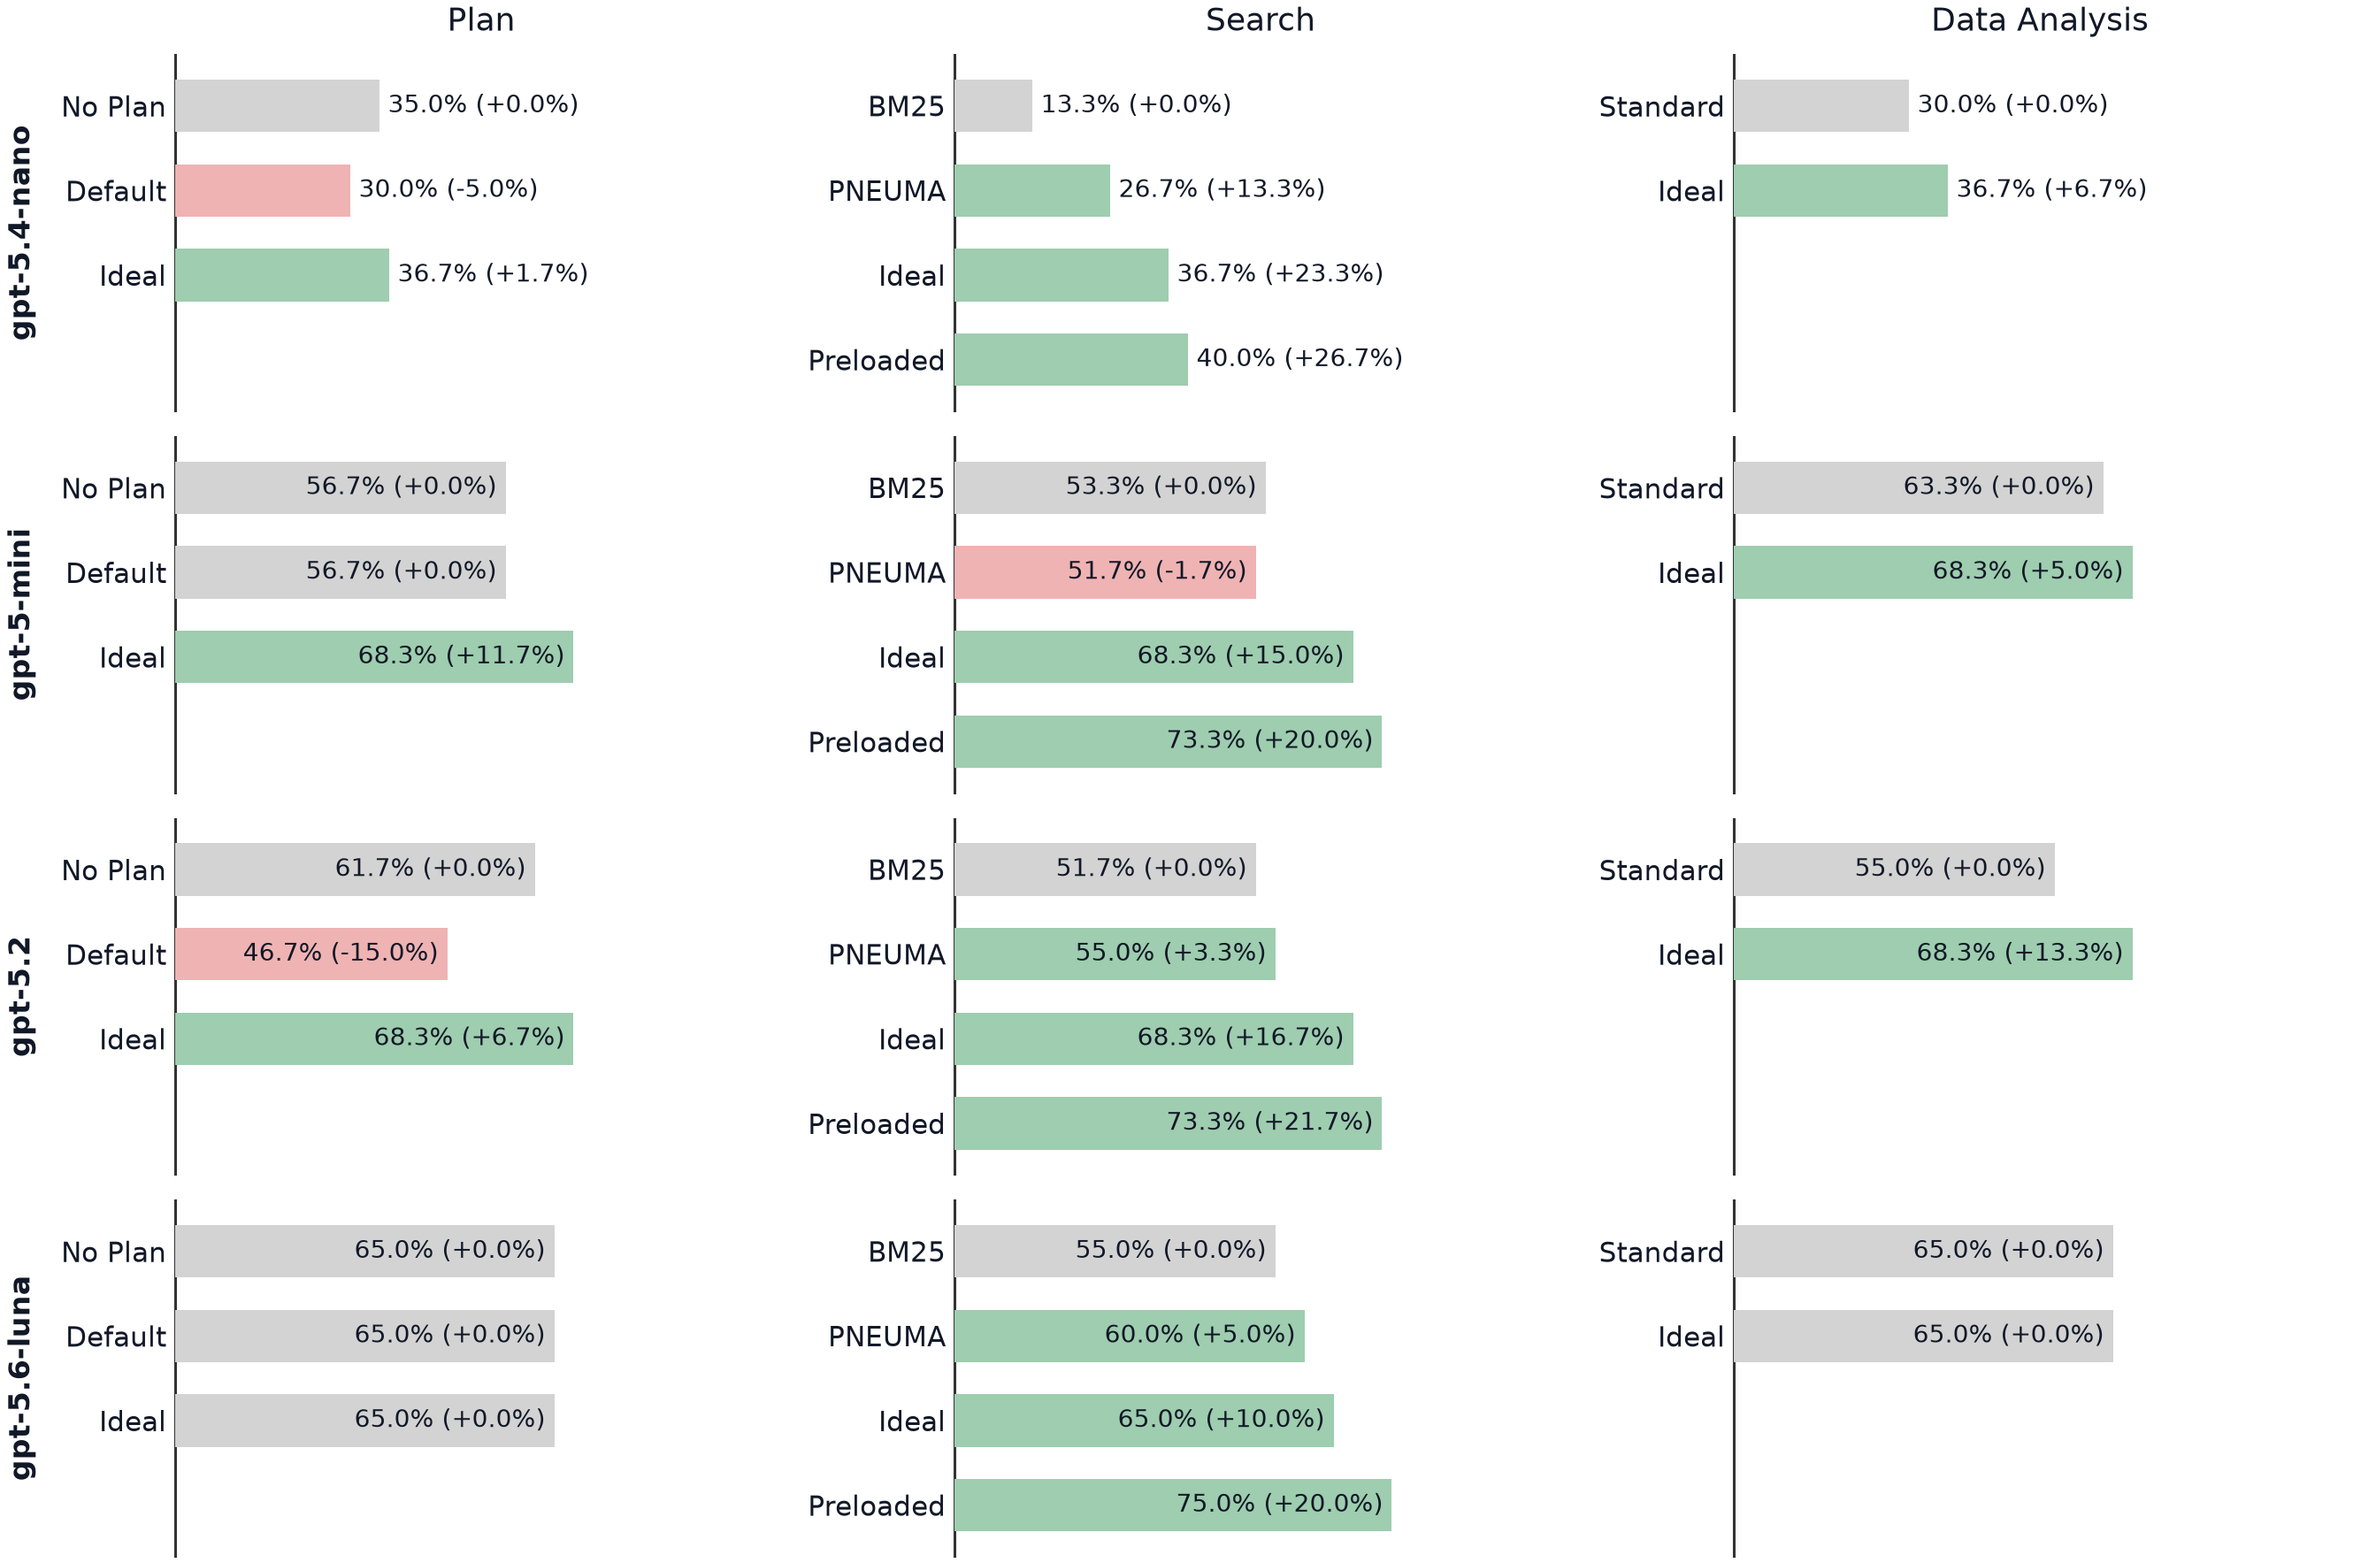
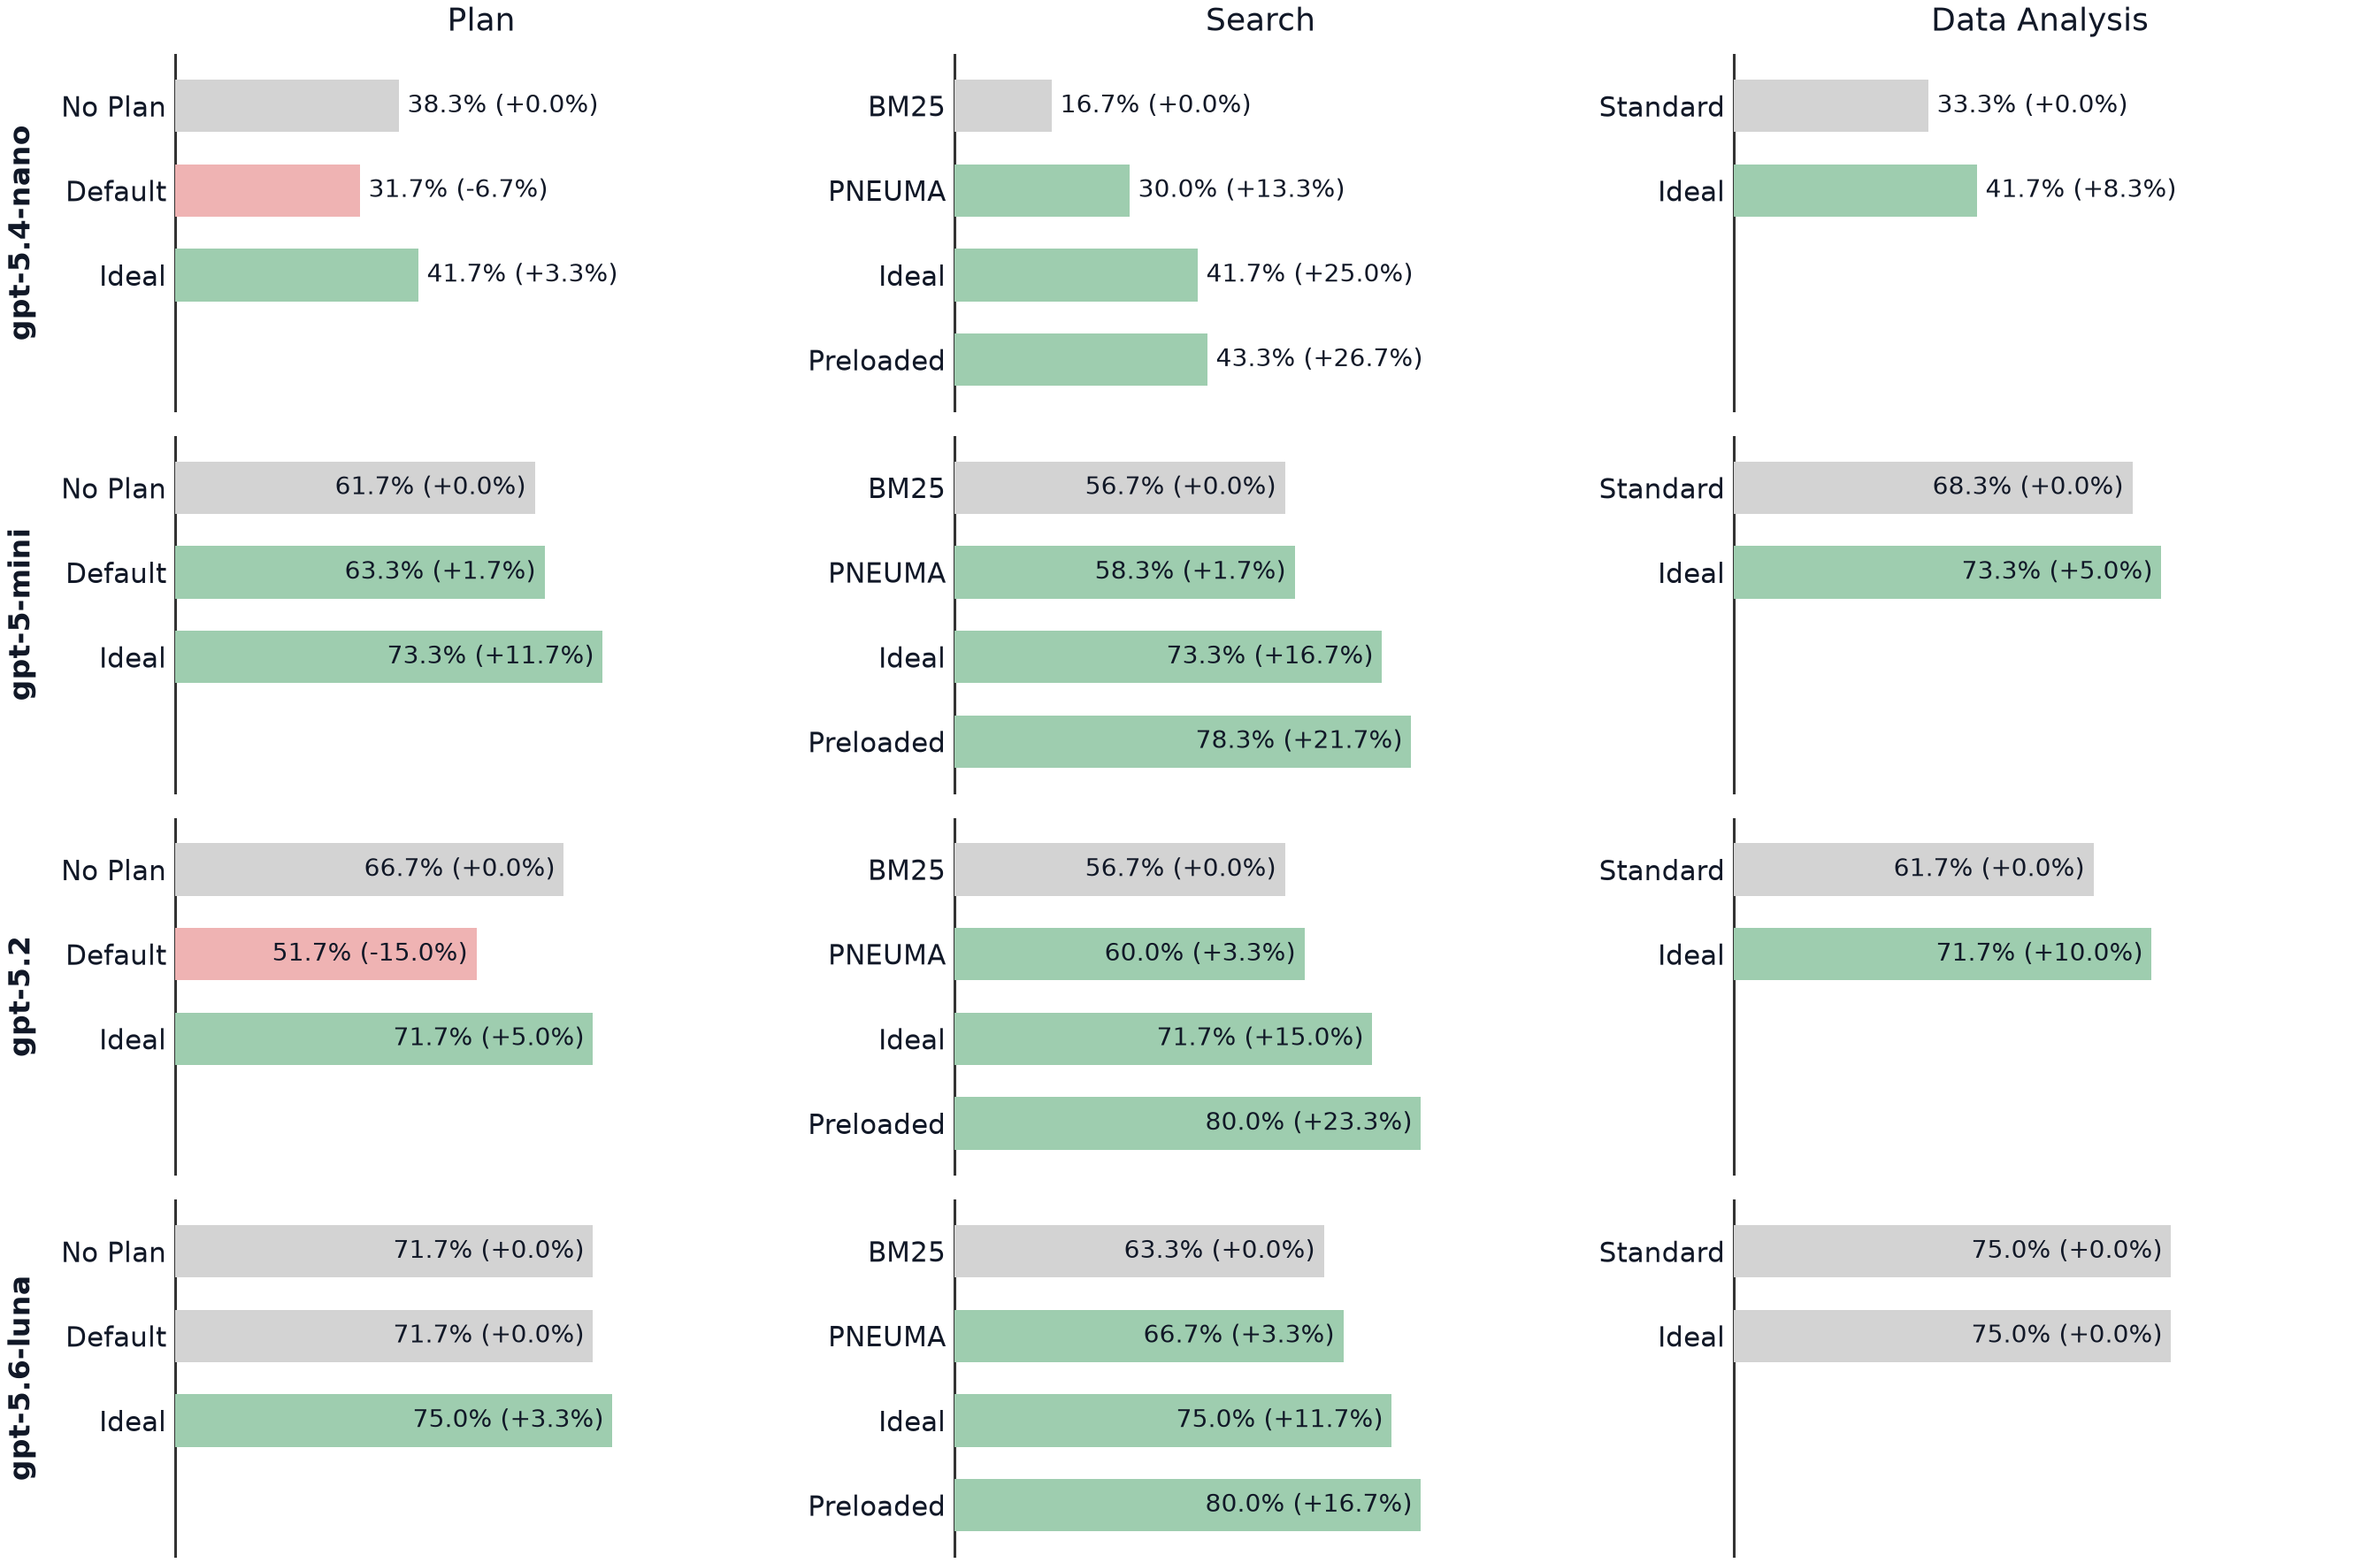
Complete gpt-5.6-luna: three rounds, audited, everything on semantic match
All four models now carry three replicate rounds of semantic match, so the
tables and both figures stop falling back to exact match.

gpt-5.6-luna reaches 71.9% against gpt-5-mini's 65.7% and gpt-5.2's 64.0%, in
10.1 agent cycles where the others take 16-23, at $0.021 per correct answer
against $0.115 and $0.276. It is the most accurate tier and the cheapest by an
order of magnitude, which is the finding this experiment was run to test.

Two fixes to finalize_luna.sh, both found by running it:

Remote paths were built as "$REMOTE:~/sana-framework/...", and bash tilde-expands
after a colon in an assignment, so every pull resolved to this machine's home
and failed. Rounds 1 and 2 only appeared to work because they had been pulled by
hand earlier; round 3 was never fetched and the script reported it as "(no
results-rep3 yet)". Paths are now relative to the remote home, and a pull that
fails while the directory exists on the remote is fatal rather than a note --
that soft branch is what hid this.

Round 1's exactly-zero plan and execution effects for luna were a coincidence of
one round, not a property. At n=3 they are -3.3, -3.3 and 0.0, still the
flattest profile of the four models but no longer identically zero.

Claude-Session: https://claude.ai/code/session_015ajqKM9XM5KkngyEHqownD

diff --git a/experiments/2026-08-31-model-tiers-subset20b/results.tex b/experiments/2026-08-31-model-tiers-subset20b/results.tex
@@ -1,6 +1,6 @@
 % ============================================================
 % GENERATED by gen_tex.py -- do not edit by hand.
-% metric: exact_match; 3 replicate rounds; 20 tasks per cell.
+% metric: semantic_match; 3 replicate rounds; 20 tasks per cell.
 % Requires: booktabs, multirow.
 % ============================================================
 
@@ -15,20 +15,20 @@ axis is degraded per cell, giving seven cells per model. Each cell was run
 a standard deviation rather than resting on a single sample.
 
 That replication is the central result. The mean per-cell standard
-deviation is 6.5\,pp, so a two-sigma interval spans
+deviation is 6.4\,pp, so a two-sigma interval spans
 $\pm13$\,pp and an effect must exceed roughly 13\,pp to be
 distinguishable from run-to-run variance. Since one task is worth 5\,pp at
 $n=20$, that threshold is about 3 tasks.
 
 Of the 24 degraded cells, only
-7 clear that threshold: Search: BM25 at \texttt{gpt-5.4-nano} ($-23.3$\,pp), Plan: Default at \texttt{gpt-5.2} ($-21.7$\,pp), Search: PNEUMA at \texttt{gpt-5-mini} ($-16.7$\,pp), Search: BM25 at \texttt{gpt-5.2} ($-16.7$\,pp), Search: BM25 at \texttt{gpt-5-mini} ($-15.0$\,pp).
+5 clear that threshold: Search: BM25 at \texttt{gpt-5.4-nano} ($-25.0$\,pp), Plan: Default at \texttt{gpt-5.2} ($-20.0$\,pp), Search: BM25 at \texttt{gpt-5-mini} ($-16.7$\,pp), Search: BM25 at \texttt{gpt-5.2} ($-15.0$\,pp), Search: PNEUMA at \texttt{gpt-5-mini} ($-15.0$\,pp).
 The search axis is the one effect that replicates across every tier;
 the remaining cells cannot be separated from noise at this sample size.
 
-The reference cells themselves are \texttt{gpt-5.4-nano} 36.7\% ($\sigma=2.9$), \texttt{gpt-5-mini} 68.3\% ($\sigma=2.9$), \texttt{gpt-5.2} 68.3\% ($\sigma=7.6$), \texttt{gpt-5.6-luna} 65.0\%.
-\texttt{gpt-5-mini} and \texttt{gpt-5.2} land on the same mean
-(68.3\%), despite a roughly sevenfold difference in
-price per token.
+The reference cells themselves are \texttt{gpt-5.4-nano} 41.7\% ($\sigma=2.9$), \texttt{gpt-5-mini} 73.3\% ($\sigma=2.9$), \texttt{gpt-5.2} 71.7\% ($\sigma=10.4$), \texttt{gpt-5.6-luna} 75.0\% ($\sigma=5.0$).
+\texttt{gpt-5-mini} and \texttt{gpt-5.2} differ by
+1.7\,pp against a standard error of 6.2\,pp on that
+difference, so they are not separable here.
 On this split the frontier model does not outperform the smaller
 one, and a single round would have suggested otherwise: round~1
 alone put \texttt{gpt-5.2} 5\,pp below \texttt{gpt-5-mini}.
@@ -36,7 +36,7 @@ alone put \texttt{gpt-5.2} 5\,pp below \texttt{gpt-5-mini}.
 \begin{table}[h]
   \centering
   \caption{Leave-one-out ablation across model tiers on LakeQA
-  \textsc{subset20b} (20 tasks per cell, exact match, mean over the
+  \textsc{subset20b} (20 tasks per cell, semantic match, mean over the
   replicate rounds each row has, run under identical configuration).
   $\bar{x}$ is the mean over those rounds and $\delta$ the effect relative
   to that model's reference cell; effects exceeding the
@@ -56,40 +56,40 @@ alone put \texttt{gpt-5.2} 5\,pp below \texttt{gpt-5-mini}.
     Model & Condition & $\bar{x}$ (\%) & $\delta$ (pp) & Rounds/task & \$/task \\
     \midrule
     \multirow{7}{*}{\texttt{gpt-5.4-nano}}
-      & Reference (all ideal) & 36.7 & --- & 20.5 & 0.0351 \\
-      & Search: BM25 & 13.3 & \textbf{$-23.3$} & 21.0 & 0.0345 \\
-      & Search: PNEUMA & 26.7 & $-10.0$ & 20.9 & 0.0364 \\
-      & Search: Preloaded & 40.0 & $+3.3$ & 20.0 & 0.0391 \\
-      & Plan: No Plan & 35.0 & $-1.7$ & 18.9 & 0.0348 \\
-      & Plan: Default & 30.0 & $-6.7$ & 22.2 & 0.0369 \\
-      & Data An.: Standard & 30.0 & $-6.7$ & 21.9 & 0.0177 \\
+      & Reference (all ideal) & 41.7 & --- & 20.5 & 0.0351 \\
+      & Search: BM25 & 16.7 & \textbf{$-25.0$} & 21.0 & 0.0345 \\
+      & Search: PNEUMA & 30.0 & $-11.7$ & 20.9 & 0.0364 \\
+      & Search: Preloaded & 43.3 & $+1.7$ & 20.0 & 0.0391 \\
+      & Plan: No Plan & 38.3 & $-3.3$ & 18.9 & 0.0348 \\
+      & Plan: Default & 31.7 & $-10.0$ & 22.2 & 0.0369 \\
+      & Data An.: Standard & 33.3 & $-8.3$ & 21.9 & 0.0177 \\
     \midrule
     \multirow{7}{*}{\texttt{gpt-5-mini}}
-      & Reference (all ideal) & 68.3 & --- & 23.1 & 0.0781 \\
-      & Search: BM25 & 53.3 & \textbf{$-15.0$} & 29.0 & 0.0927 \\
-      & Search: PNEUMA & 51.7 & \textbf{$-16.7$} & 27.2 & 0.0987 \\
-      & Search: Preloaded & 73.3 & $+5.0$ & 16.7 & 0.0595 \\
-      & Plan: No Plan & 56.7 & $-11.7$ & 21.3 & 0.0784 \\
-      & Plan: Default & 56.7 & $-11.7$ & 23.7 & 0.0817 \\
-      & Data An.: Standard & 63.3 & $-5.0$ & 22.4 & 0.0399 \\
+      & Reference (all ideal) & 73.3 & --- & 23.1 & 0.0781 \\
+      & Search: BM25 & 56.7 & \textbf{$-16.7$} & 29.0 & 0.0927 \\
+      & Search: PNEUMA & 58.3 & \textbf{$-15.0$} & 27.2 & 0.0987 \\
+      & Search: Preloaded & 78.3 & $+5.0$ & 16.7 & 0.0595 \\
+      & Plan: No Plan & 61.7 & $-11.7$ & 21.3 & 0.0784 \\
+      & Plan: Default & 63.3 & $-10.0$ & 23.7 & 0.0817 \\
+      & Data An.: Standard & 68.3 & $-5.0$ & 22.4 & 0.0399 \\
     \midrule
     \multirow{7}{*}{\texttt{gpt-5.2}}
-      & Reference (all ideal) & 68.3 & --- & 17.3 & 0.1916 \\
-      & Search: BM25 & 51.7 & \textbf{$-16.7$} & 19.7 & 0.2275 \\
-      & Search: PNEUMA & 55.0 & \textbf{$-13.3$} & 19.0 & 0.2251 \\
-      & Search: Preloaded & 73.3 & $+5.0$ & 12.3 & 0.1420 \\
-      & Plan: No Plan & 61.7 & $-6.7$ & 12.9 & 0.1615 \\
-      & Plan: Default & 46.7 & \textbf{$-21.7$} & 16.1 & 0.1701 \\
-      & Data An.: Standard & 55.0 & \textbf{$-13.3$} & 16.7 & 0.1194 \\
+      & Reference (all ideal) & 71.7 & --- & 17.3 & 0.1916 \\
+      & Search: BM25 & 56.7 & \textbf{$-15.0$} & 19.7 & 0.2275 \\
+      & Search: PNEUMA & 60.0 & $-11.7$ & 19.0 & 0.2251 \\
+      & Search: Preloaded & 80.0 & $+8.3$ & 12.3 & 0.1420 \\
+      & Plan: No Plan & 66.7 & $-5.0$ & 12.9 & 0.1615 \\
+      & Plan: Default & 51.7 & \textbf{$-20.0$} & 16.1 & 0.1701 \\
+      & Data An.: Standard & 61.7 & $-10.0$ & 16.7 & 0.1194 \\
     \midrule
     \multirow{7}{*}{\texttt{gpt-5.6-luna}}
-      & Reference (all ideal) & 65.0 & --- & 11.6 & 0.0163 \\
-      & Search: BM25 & 55.0 & $-10.0$ & 11.8 & 0.0196 \\
-      & Search: PNEUMA & 60.0 & $-5.0$ & 13.7 & 0.0206 \\
-      & Search: Preloaded & 75.0 & $+10.0$ & 8.5 & 0.0134 \\
-      & Plan: No Plan & 65.0 & $+0.0$ & 7.4 & 0.0121 \\
-      & Plan: Default & 65.0 & $+0.0$ & 10.3 & 0.0144 \\
-      & Data An.: Standard & 65.0 & $+0.0$ & 9.8 & 0.0094 \\
+      & Reference (all ideal) & 75.0 & --- & 10.4 & 0.0148 \\
+      & Search: BM25 & 63.3 & $-11.7$ & 11.9 & 0.0200 \\
+      & Search: PNEUMA & 66.7 & $-8.3$ & 12.7 & 0.0193 \\
+      & Search: Preloaded & 80.0 & $+5.0$ & 8.2 & 0.0134 \\
+      & Plan: No Plan & 71.7 & $-3.3$ & 7.9 & 0.0128 \\
+      & Plan: Default & 71.7 & $-3.3$ & 10.1 & 0.0142 \\
+      & Data An.: Standard & 75.0 & $+0.0$ & 9.9 & 0.0096 \\
     \bottomrule
   \end{tabular}}
 \end{table}
@@ -105,11 +105,11 @@ alone put \texttt{gpt-5.2} 5\,pp below \texttt{gpt-5-mini}.
     \toprule
     Statistic over per-cell $\sigma$ & Value (pp) \\
     \midrule
-    Mean                  & 6.5 \\
-    Median                & 5.8 \\
-    Maximum               & 13.2 \\
-    Two-sigma threshold   & 13.0 \\
-    Cells                 & 21 \\
+    Mean                  & 6.4 \\
+    Median                & 6.7 \\
+    Maximum               & 14.4 \\
+    Two-sigma threshold   & 12.8 \\
+    Cells                 & 28 \\
     \bottomrule
   \end{tabular}
 \end{table}
@@ -120,7 +120,7 @@ alone put \texttt{gpt-5.2} 5\,pp below \texttt{gpt-5-mini}.
   \caption{Per-axis ablation across model tiers on LakeQA
   \textsc{subset20b}. Rows are models, columns are the three SANA axes,
   and each bar is one mode of that axis with the other two held at
-  \emph{Ideal}. The label gives the exact match and its change
+  \emph{Ideal}. The label gives the semantic match and its change
   against the panel's baseline -- the weakest mode of that axis, the top
   row of each panel. Bars are means over the replicate rounds; colour
   repeats the sign of the printed delta rather than carrying it alone.
